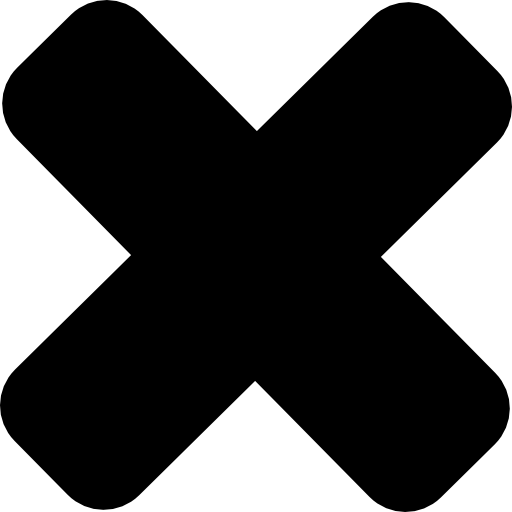
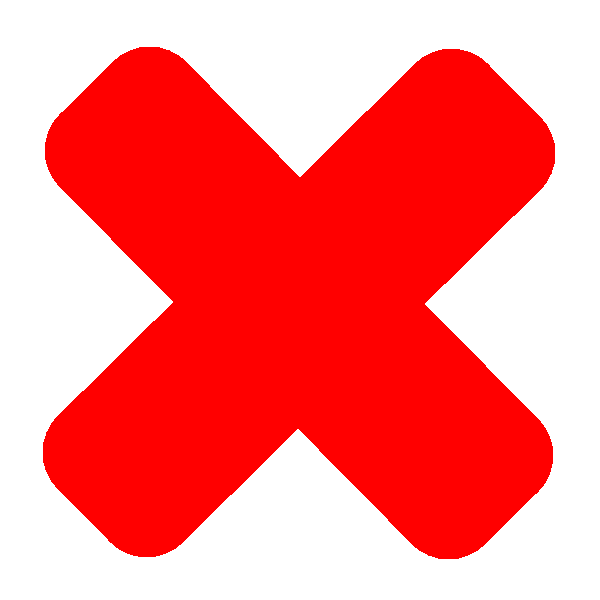
Correct sign for break sitting

diff --git a/src/main/kotlin/com/ms/sittingclient/main_window/MainWindowView.kt b/src/main/kotlin/com/ms/sittingclient/main_window/MainWindowView.kt
@@ -95,10 +95,18 @@ class MainWindowView : View("Podsumowanie"), MeasurementObserver {
     }
 
     override fun onNext(measurement: Measurement) {
-        if (measurement.grade == 1.0F) {
-            statusImageView.image = okImage
+        if (timeCounter.currentPeriod == CurrentPeriod.WORK) {
+            if (measurement.grade == 1.0F) {
+                statusImageView.image = okImage
+            } else {
+                statusImageView.image = notOkImage
+            }
         } else {
-            statusImageView.image = notOkImage
+            if (measurement.grade == -1.0F) {
+                statusImageView.image = okImage
+            } else {
+                statusImageView.image = notOkImage
+            }
         }
     }
 

diff --git a/src/main/kotlin/com/ms/sittingclient/main_window/TimeCounter.kt b/src/main/kotlin/com/ms/sittingclient/main_window/TimeCounter.kt
@@ -14,7 +14,7 @@ class TimeCounter(private val settingsIo: SettingsIo) : TimerTask() {
     private var currentSeconds: AtomicInteger = AtomicInteger(0)
     private var breakTime: AtomicInteger = AtomicInteger(0)
     private var workTime: AtomicInteger = AtomicInteger(0)
-    private var currentPeriod = CurrentPeriod.WORK
+    var currentPeriod = CurrentPeriod.WORK
 
     val currentPeriodName: SimpleStringProperty = SimpleStringProperty("")
     val nextPeriodName: SimpleStringProperty = SimpleStringProperty("")
